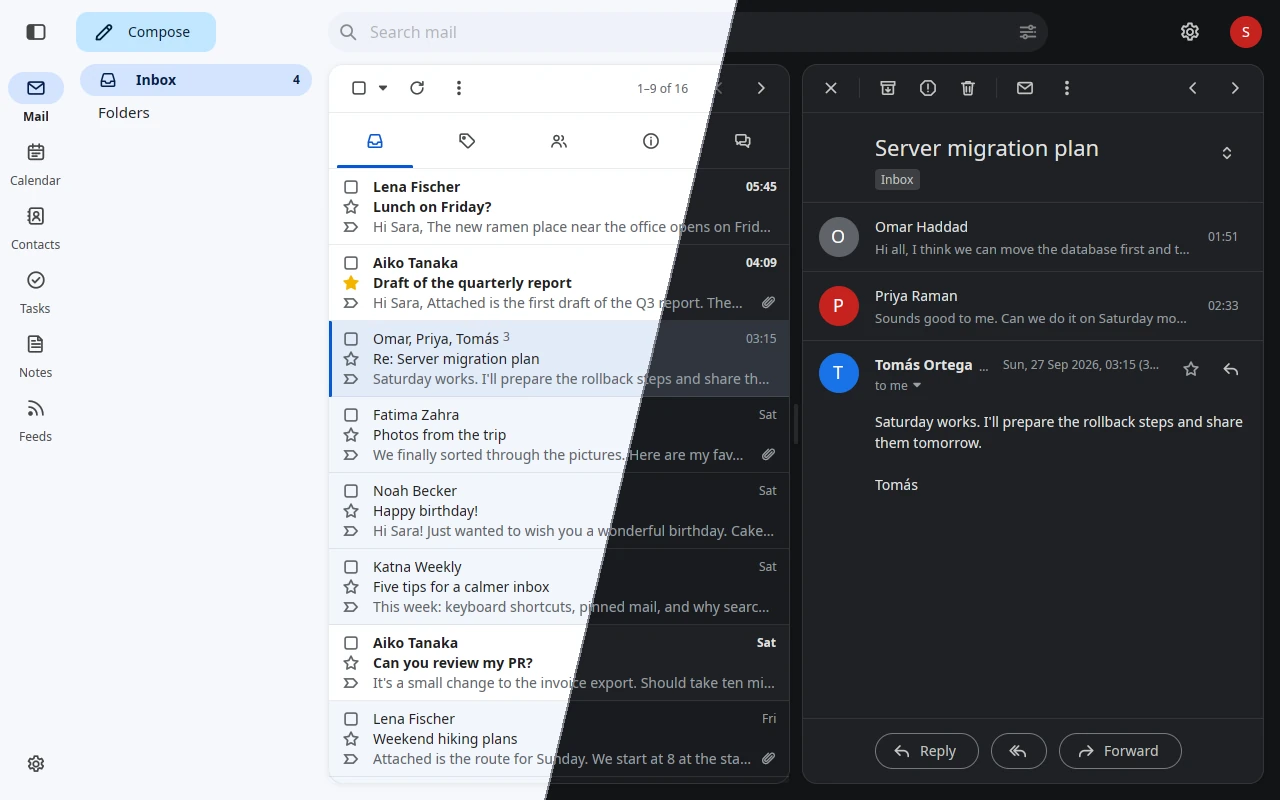
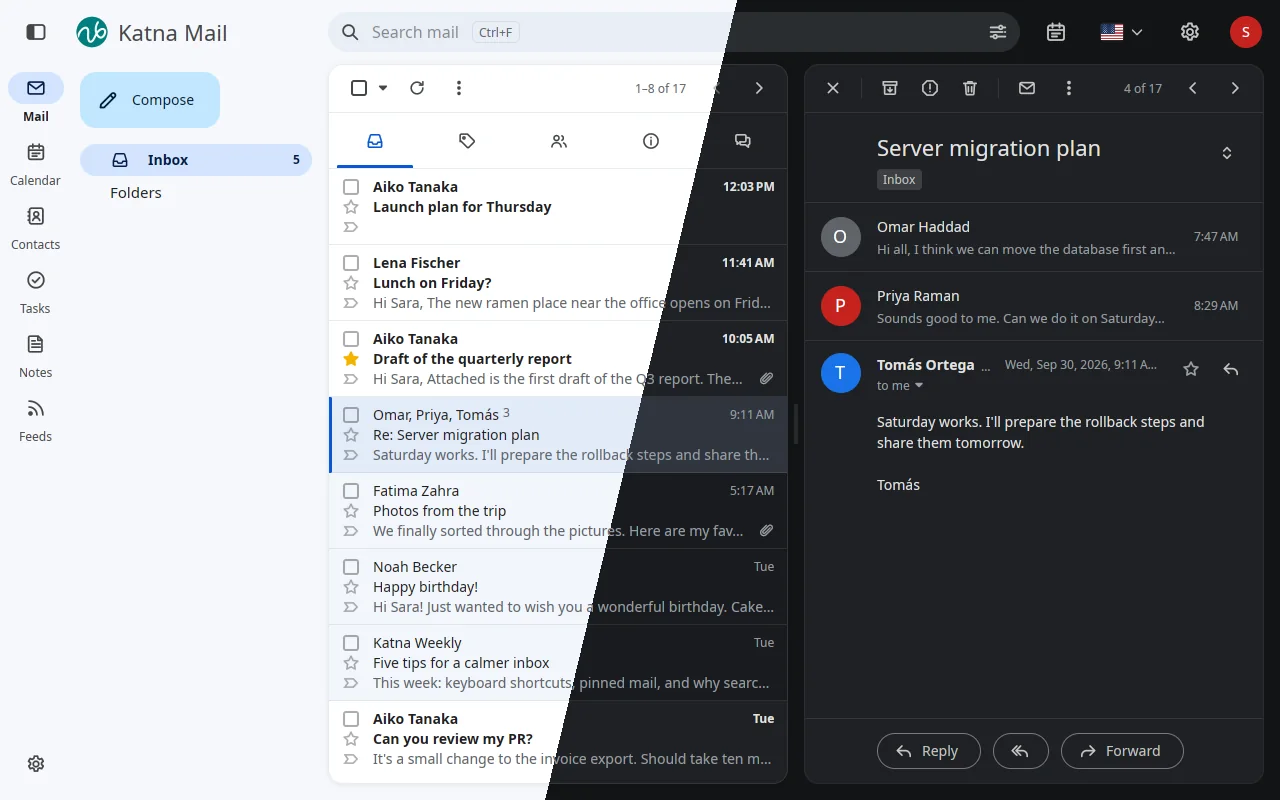
readme: tell why I built Katna and show today's app
"Why I built Katna" tells, in Mozammel's words, how KMail, Thunderbird
and Mailspring each fell short for him and why he wanted Gmail's ease in a
desktop app that works offline. It replaces "A personal project" and
keeps its thanks and the note on LLMs.

Every mail screenshot is retaken from current main with made-up demo data,
and new half-light, half-dark shots show the Calendar, Contacts and Tasks
pages. The feature list gains Calendar, Contacts, Tasks and Notes, and
"Coming next" now names only Feeds. The KDE global menu shot stays as it
was, since it needs a real Plasma desktop.

Claude-Session: https://claude.ai/code/session_01T5rwisNG3TSG17RNBbzFJn

diff --git a/README.md b/README.md
@@ -34,19 +34,34 @@
   <img src="docs/screenshots/desktop-light-dark.webp" alt="Katna Mail on a desktop-sized window, half in the light theme and half in the dark theme, with a conversation open beside the list">
 </p>
 
-## A personal project
+## Why I built Katna
+
+For about eight years, KMail was the mail app I loved most. It looked
+native on my desktop and I could shape it exactly the way I wanted. But it
+kept breaking for me, and it still does today. I tried Thunderbird, but
+its mail search never found what I was looking for. Then I tried
+Mailspring, which looks lovely and works well, but it never fitted into
+KDE and it is very large.
+
+What I really love is Gmail: its interface and how easy it is to use. I
+just don't want my mail to live in a web page; I want a desktop app that
+also works offline. No app gave me all of that, so I set out to build one.
 
 Katna Mail is not trying to be unique or revolutionary. It is a very
-personal project: the mail client its author wanted on their own Linux
-desktop. Its features and look are openly borrowed from the mail apps they
-love, mainly Gmail, Mailspring and Thunderbird, and rebuilt in Rust with
-Katna's own name and icons.
+personal project: the mail client I wanted on my own Linux desktop. Its
+features and look are openly borrowed from the mail apps I love, mainly
+Gmail, Mailspring and Thunderbird, and rebuilt in Rust with Katna's own
+name and icons. KMail, Thunderbird and Mailspring are made by people who
+have given a lot to free software, and Katna owes each of them a great
+deal.
 
 Katna has only been possible because of how far LLMs (large language
 models) have come. They turned a full mail client, long the work of a whole
-team, into something one person can build with care. Every screen is still
-designed, checked pixel by pixel and used every day by its author, on a
-real desktop with real mail.
+team, into something one person can build with care. I still design every
+screen, check it pixel by pixel and use Katna every day, on a real desktop
+with real mail.
+
+— Mozammel
 
 ## Highlights
 
@@ -64,8 +79,9 @@ real desktop with real mail.
 
 ## Katna Mail today
 
-One app for every screen size, in light and dark. Desktop is shown above;
-tablet and phone below.
+One window for mail, calendar, contacts, tasks and notes, on every screen
+size, in light and dark. Desktop is shown above; the rest below. Every
+screenshot uses made-up demo data.
 
 <table>
   <tr>
@@ -83,6 +99,20 @@ tablet and phone below.
   <tr>
     <td>Encrypted and signed mail</td>
     <td>Built-in viewer for PDFs, pictures, sheets and documents</td>
+  </tr>
+  <tr>
+    <td colspan="2" align="center"><img src="docs/screenshots/calendar-light-dark.webp" alt="The Calendar page, half light and half dark, with a week of events in three colored calendars and tasks above the days"></td>
+  </tr>
+  <tr>
+    <td colspan="2" align="center">Calendar: your week, with calendars grouped by account and tasks on their day</td>
+  </tr>
+  <tr>
+    <td width="50%"><img src="docs/screenshots/contacts-light-dark.webp" alt="The Contacts page, half light and half dark, with starred contacts, labels and a list of people"></td>
+    <td width="50%"><img src="docs/screenshots/tasks-light-dark.webp" alt="The Tasks page, half light and half dark, with two task lists side by side"></td>
+  </tr>
+  <tr>
+    <td>Contacts, with labels and starred people</td>
+    <td>Tasks, in lists with due dates and stars</td>
   </tr>
   <tr>
     <td colspan="2" align="center"><img src="docs/screenshots/kde-global-menu-tray.webp" width="70%" alt="Katna Mail on KDE Plasma with the global menu, taskbar count and tray badge"></td>
@@ -107,6 +137,15 @@ tablet and phone below.
 - **Your desktop:** tray icon, unread badge, global menu, notifications
   with Reply all, Mark read and Archive, light and dark themes, optional
   own window frame with blur (Experimental).
+- **Calendar:** day, week, month and year views, events from Google,
+  Microsoft and CalDAV accounts or on this computer, repeating events,
+  invitations answered from the reader, and events in the Plasma clock.
+- **Contacts:** synced from Google, Microsoft and CardDAV, with labels,
+  birthdays in the calendar, merge and fix, import, export and print.
+- **Tasks:** Google Tasks, Microsoft To Do and CalDAV lists, with due
+  dates, reminders, repeats and stars.
+- **Notes:** notes in Google Keep's look, kept in each account's Notes
+  folder so they also show in Apple Notes and Thunderbird.
 - **Any screen size:** desktop, tablet and phone layouts in one app.
 - **Settings** for accounts, signatures, keyboard shortcuts, default apps
   and more, plus a short onboarding for new users.
@@ -114,9 +153,8 @@ tablet and phone below.
 
 ### Coming next
 
-Katna Calendar (CalDAV, with events in the Plasma clock), Contacts, Tasks,
-Notes and Feeds are planned; they already have a place in the app, marked
-"coming soon". See the [implementation plan](docs/IMPLEMENTATION_PLAN.md).
+Feeds is planned and already has a place in the app, marked "coming soon".
+See the [implementation plan](docs/IMPLEMENTATION_PLAN.md).
 
 ## Install
 
